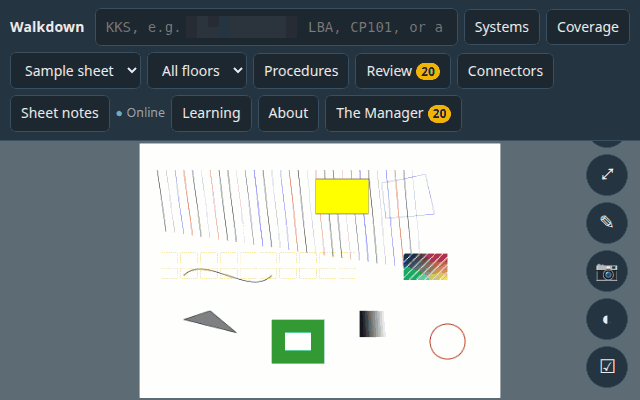
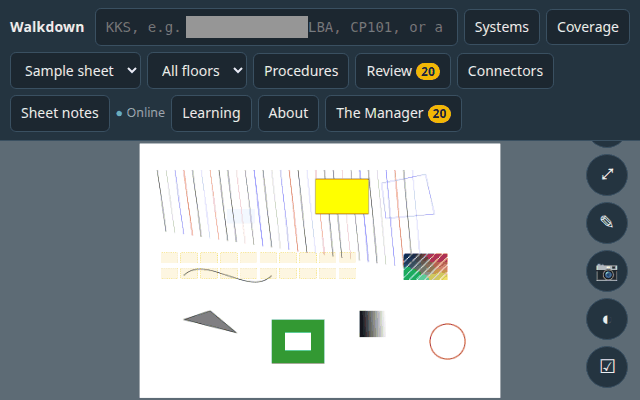
Audit records: solid redaction bars from the original images; a note on each record
The redaction is redone from main's screenshots as solid grey bars, saved without
re-quantizing, so only the bars change. Each changed record says so at the top.

Changed region(s): [[0.25, 0.63, 0.5625, 0.72], [0.2812, 0.03, 0.5, 0.12]]

diff --git a/docs/ui-audit/2026-11/android.md b/docs/ui-audit/2026-11/android.md
@@ -1,5 +1,7 @@
 # UI audit 2026-11, pass 1: Walkdown Android (helper "vm")
 
+*Example codes in this record and in its screenshots were replaced with an invented code or blurred on 2026-11-19 (the owner's decision); the findings are unchanged.*
+
 ## 1. What was run
 
 - Build: main at 9eb5b09b (branch ui-audit-2026-11). Debug APK `./gradlew --no-daemon --max-workers=2 -PkksNativeJobs=3
@@ -8,7 +10,7 @@
 - Emulator: AVD Pixel_9_Pro_XL (Android 16, x86_64 only, 1344 × 2992, density 480 = 3.0), started as CLAUDE.md says
   (own scope MemoryMax=8G, `-gpu guest`), under `vm.lock`, `ANDROID_SERIAL=emulator-5554` for every call. Demo-mode status bar (12:00) for the screenshots.
 - Data (synthetic only): a fresh server with the sample sheet `importer/tests/vectors/kkp-sample.pdf`, 21 marked tags
-  11LAB70AA500…521, 11LAB70AA500 with long "How to find it" text and the fixture note `مضخة التغذية 11LAB70AA500 تعمل`
+  (the audit server's list), 11LAB70AA500 with long "How to find it" text and the fixture note `مضخة التغذية 11LAB70AA500 تعمل`
   (Near and Notes), a member `تالا Member` with 20 open proposals. The phone joined as the manager.
 - Driven with `android/app2/e2e/adbui.py` (uiautomator dump, input). Checked: setup, join form (wrong password, server
   down), main/drawing, search, tag panel (top, scrolled to the end, edit form), Procedures, Review, Learning, Manage and

diff --git a/docs/ui-audit/2026-11/pass2-gnome-plant.md b/docs/ui-audit/2026-11/pass2-gnome-plant.md
@@ -1,5 +1,7 @@
 # UI/UX audit 2026-11, pass 2 (adversarial): Walkdown GNOME and Walkdown Plant
 
+*Example codes in this record and in its screenshots were replaced with an invented code or blurred on 2026-11-19 (the owner's decision); the findings are unchanged.*
+
 Auditor: pass 2, fresh. Policy: `docs/UI-UX-POLICY.md`. Code: main at 9eb5b09b (the audit checkout). Read-only: no
 GNOME session, no Godot run, no emulator. Evidence is pass 1's raw outputs (`~/kks-work/build/ui-audit/desk/`), its
 screenshots, and the code (file:line below is in the audit checkout). Small read-only scripts sampled the existing

diff --git a/docs/ui-audit/2026-11/pass2-android-windows.md b/docs/ui-audit/2026-11/pass2-android-windows.md
@@ -1,5 +1,7 @@
 # UI audit 2026-11, pass 2 (adversarial): Walkdown Android and Windows
 
+*Example codes in this record and in its screenshots were replaced with an invented code or blurred on 2026-11-19 (the owner's decision); the findings are unchanged.*
+
 Pass 1's results: android.md and windows.md in this folder. This pass ran nothing on the emulator or a VM: it reads
 the code at 9eb5b09b (the checkout pass 1 built) and pass 1's raw outputs in `~/kks-work/build/ui-audit/vm/`
 (uiautomator dumps and their `.txt` reports, UIA dumps and `.issues.txt`, screenshots). Contrast ratios are computed

diff --git a/docs/ui-audit/2026-11/web.md b/docs/ui-audit/2026-11/web.md
@@ -1,5 +1,7 @@
 # UI/UX audit 2026-11, pass 1 (blind): Walkdown web client
 
+*Example codes in this record and in its screenshots were replaced with an invented code or blurred on 2026-11-19 (the owner's decision); the findings are unchanged.*
+
 Scope: index.html, admin.html, learning.html, course.html and the scripts they load, in Chromium, WebKit (standing in
 for Safari) and Firefox, against docs/UI-UX-POLICY.md. Auditor: helper "web". Code cited as `file:line` on commit
 9eb5b09b (main, branch ui-audit-2026-11).

diff --git a/docs/ui-audit/2026-11/windows.md b/docs/ui-audit/2026-11/windows.md
@@ -1,5 +1,7 @@
 # UI audit 2026-11, pass 1: Walkdown Windows (helper "vm")
 
+*Example codes in this record and in its screenshots were replaced with an invented code or blurred on 2026-11-19 (the owner's decision); the findings are unchanged.*
+
 ## 1. What was run
 
 - Build: main at 9eb5b09b, cross-built with `apps/windows/build.sh` (llvm-mingw, x86_64) → Walkdown.exe (16.5 MB) and

diff --git a/docs/ui-audit/2026-11/gnome.md b/docs/ui-audit/2026-11/gnome.md
@@ -1,5 +1,7 @@
 # UI/UX audit 2026-11, pass 1 (blind): Walkdown GNOME app
 
+*Example codes in this record and in its screenshots were replaced with an invented code or blurred on 2026-11-19 (the owner's decision); the findings are unchanged.*
+
 Auditor: desk. Policy: `docs/UI-UX-POLICY.md` (adopted 2026-11-15). Code: main at 9eb5b09b.
 
 ## 1. What was run
